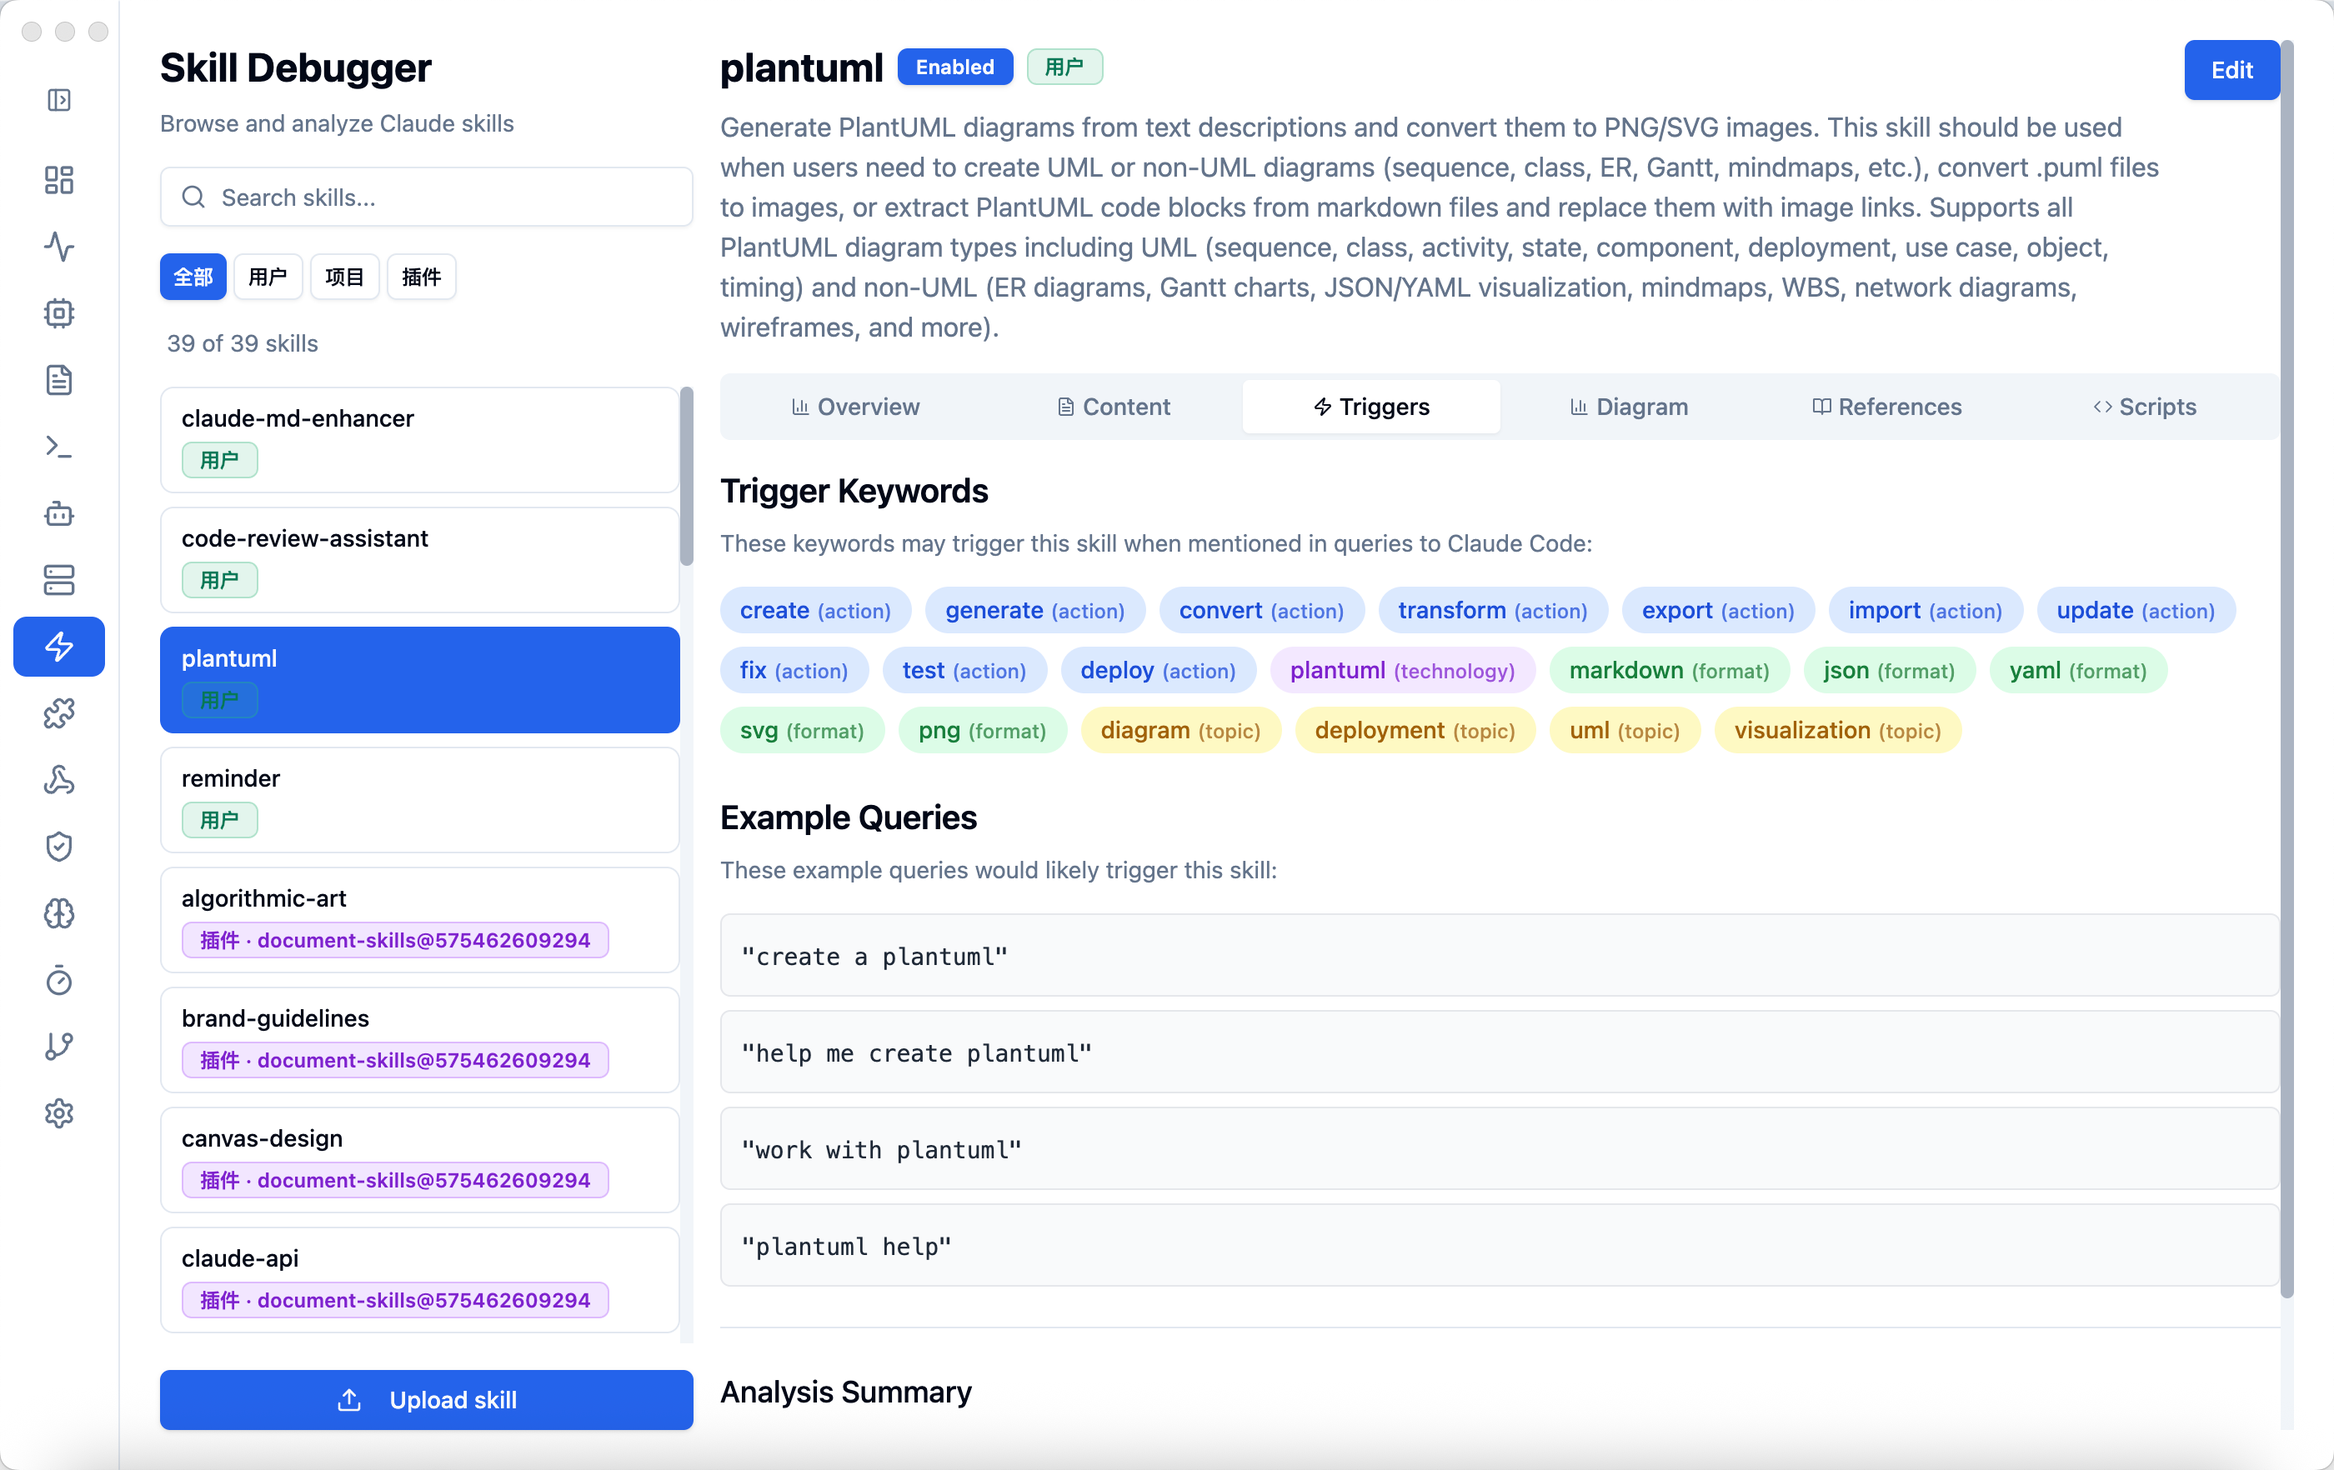
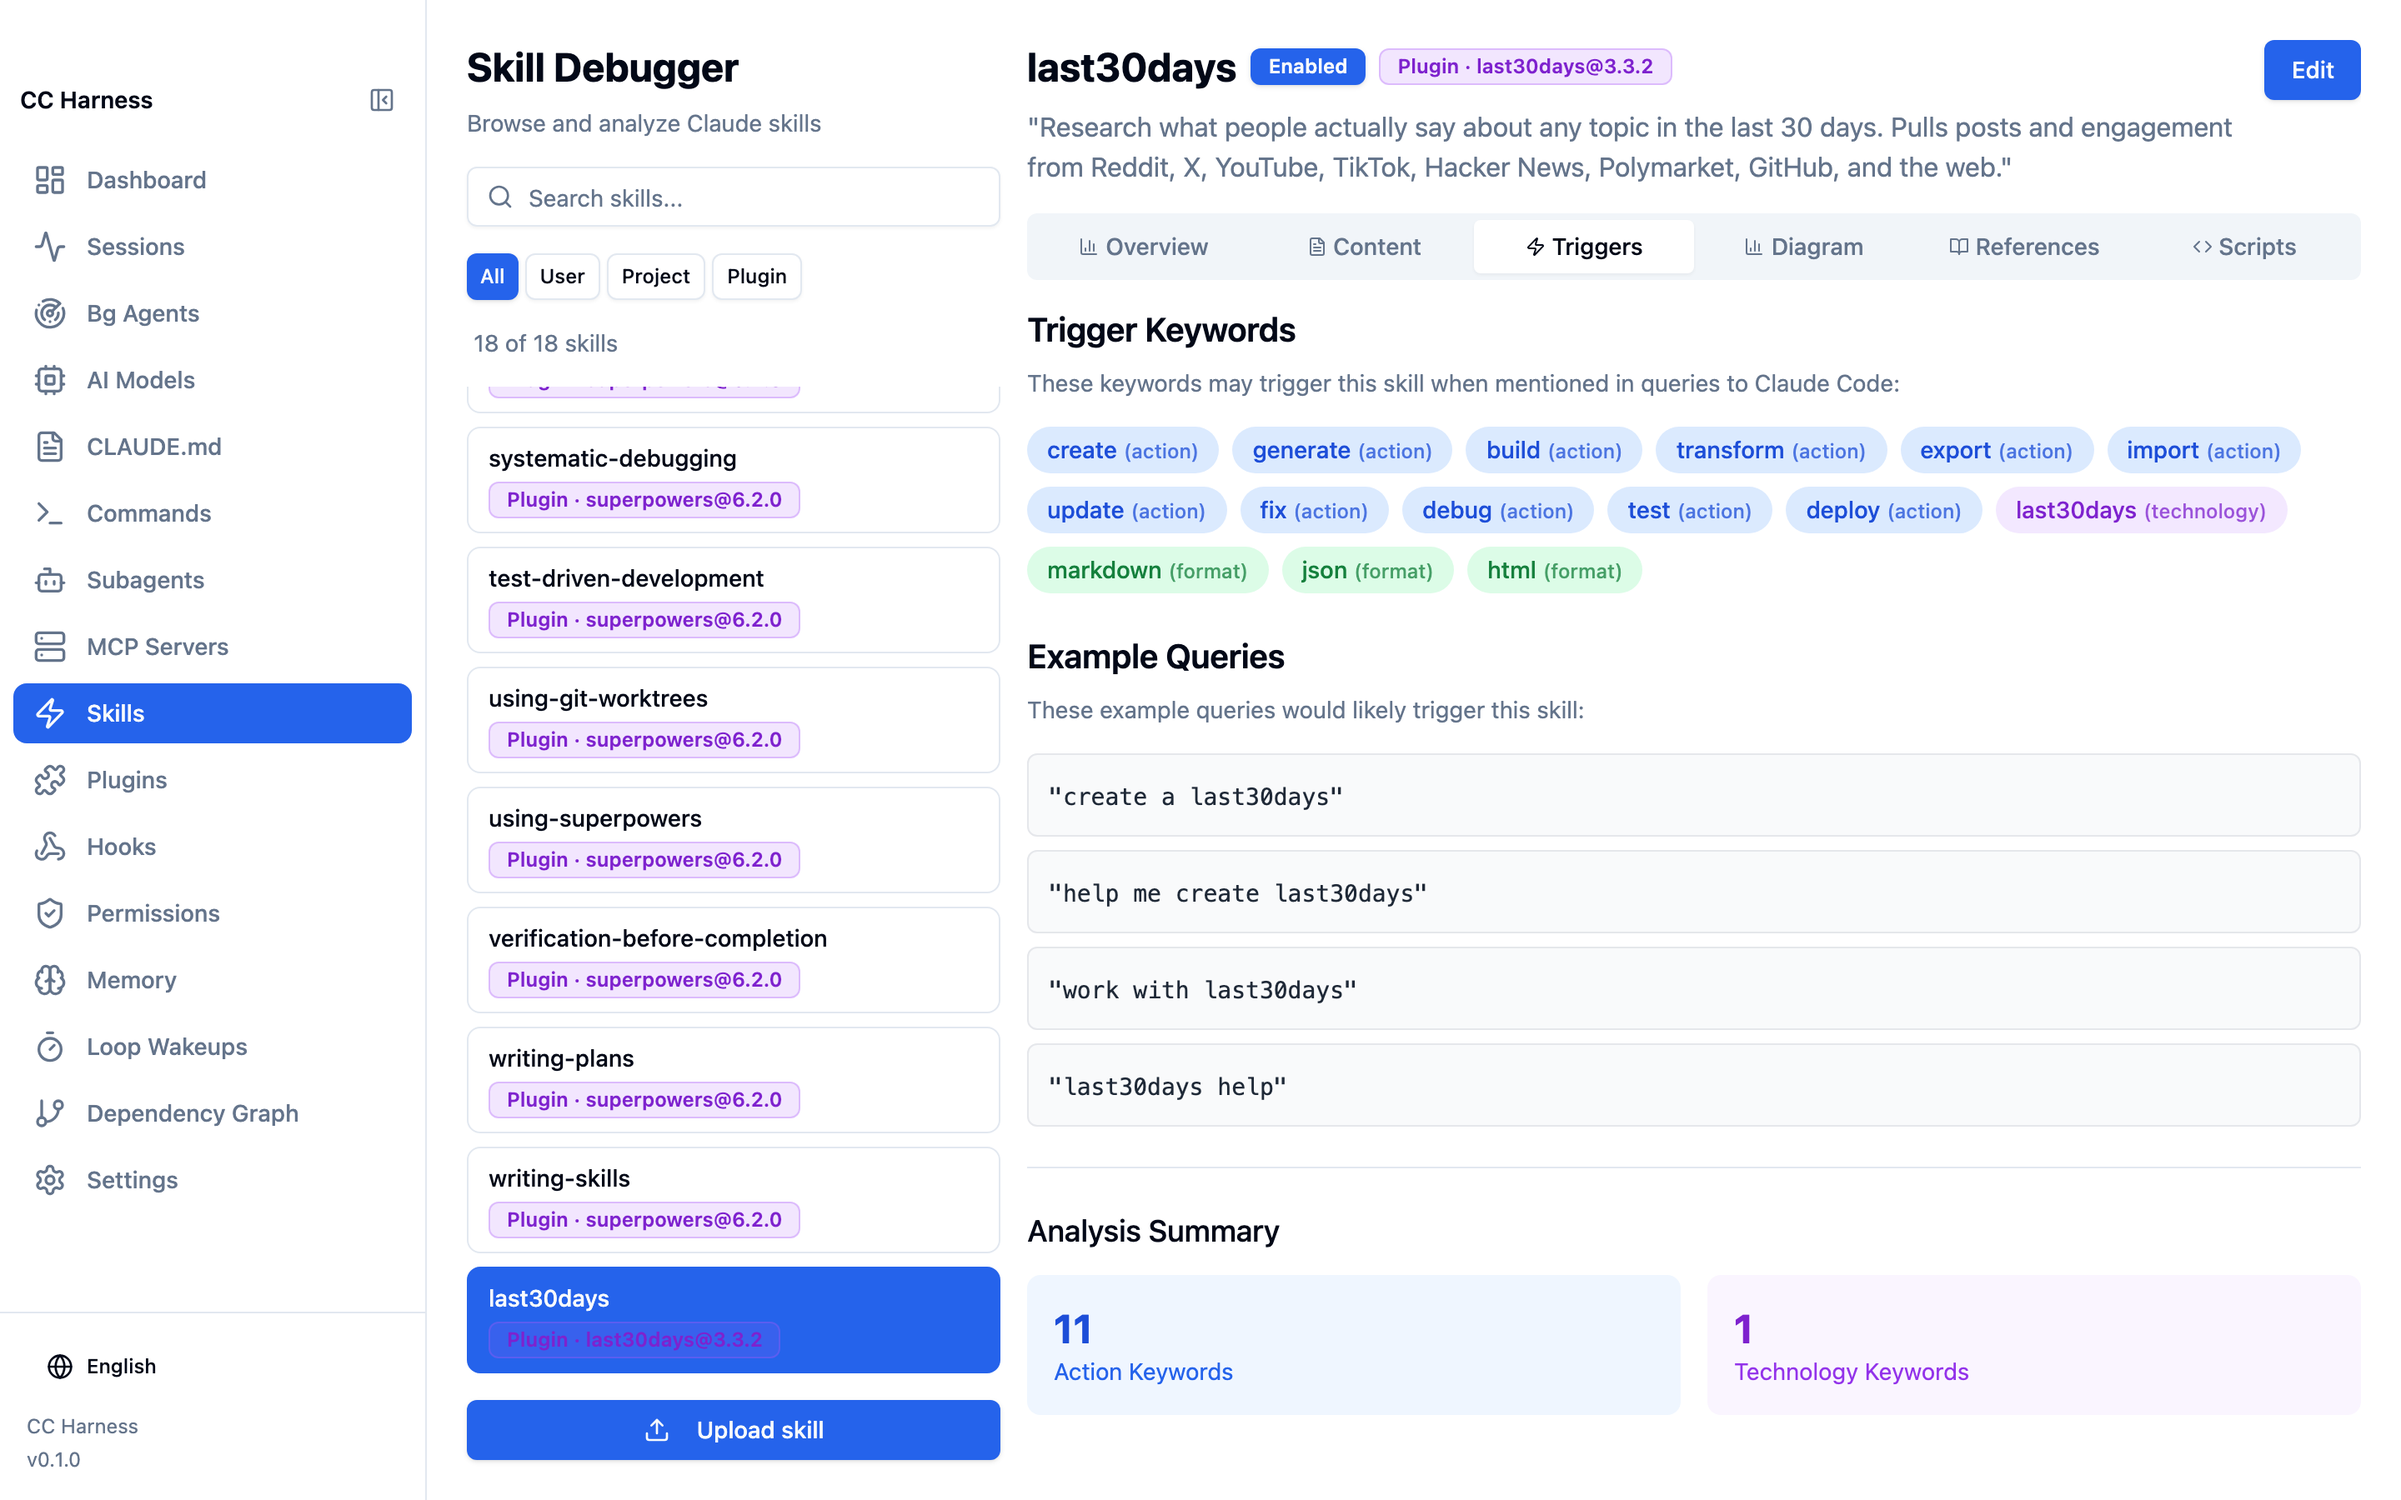
docs(readme): 英文 UI 重截 Usage / Skills 截图（Usage 换成带下钻榜单的构图）
fix(usage): 饼图外挂标签在半栏卡片里必被裁 —— 改为下方紧凑图例，点图例同样可下钻

diff --git a/src/components/sessions/SessionUsage.tsx b/src/components/sessions/SessionUsage.tsx
@@ -117,7 +117,7 @@ export function SessionUsage({ sessionId, sessionFilePath, onSeek, onOpenTopolog
         {/* 成本饼图 */}
         <div className="border border-border rounded p-3">
           <div className="text-xs font-medium mb-1">{t('usage.pieTitle')}</div>
-          <ResponsiveContainer width="100%" height={200}>
+          <ResponsiveContainer width="100%" height={168}>
             <PieChart>
               <Pie
                 data={pieData}
@@ -127,7 +127,6 @@ export function SessionUsage({ sessionId, sessionFilePath, onSeek, onOpenTopolog
                 cy="50%"
                 outerRadius={70}
                 cursor="pointer"
-                label={(e) => `${t(`usage.bucket.${e.bucket}`)} ${usd(e.value)}`}
                 onClick={(_, idx) => {
                   const b = pieData[idx]?.bucket
                   if (b) setDrillBucket((prev) => (prev === b ? null : b))
@@ -140,6 +139,23 @@ export function SessionUsage({ sessionId, sessionFilePath, onSeek, onOpenTopolog
               <Tooltip formatter={(v: number) => usd(v)} />
             </PieChart>
           </ResponsiveContainer>
+          {/* 图例代替扇区外挂标签：卡片只有半栏宽，外挂标签必被裁 */}
+          <div className="flex flex-wrap gap-x-3 gap-y-1 mt-1">
+            {pieData.map((d) => (
+              <button
+                key={d.bucket}
+                onClick={() => setDrillBucket((prev) => (prev === d.bucket ? null : d.bucket))}
+                className={cn(
+                  'flex items-center gap-1 text-[11px] rounded px-1 hover:bg-muted/50',
+                  drillBucket === d.bucket && 'bg-muted'
+                )}
+              >
+                <span className="w-2 h-2 rounded-sm" style={{ background: BUCKET_COLOR[d.bucket] }} />
+                {t(`usage.bucket.${d.bucket}`)}
+                <span className="text-muted-foreground">{usd(d.value)}</span>
+              </button>
+            ))}
+          </div>
         </div>
 
         {/* 累计烧钱 */}

diff --git a/README.md b/README.md
@@ -30,7 +30,7 @@ Claude Code has grown from a single-session tool into a complex system: multi-se
 
 ![Hook sandbox](./images/hook-2.png)
 
-- **Token cost breakdown** — per-session panel splitting skills / subagents / MCP / plugins / base session. Includes a real-time optimizer: repricing the current session's Opus tokens at Sonnet rates, so you see the exact dollar amount you'd save — from real data, not an estimate.
+- **Token cost breakdown** — per-session panel splitting skills / subagents / MCP / plugins / base session. Click a slice to rank that bucket's most expensive turns, then click a row to land on that exact message in the replay. Includes a real-time optimizer: repricing the current session's Opus tokens at Sonnet rates, so you see the exact dollar amount you'd save — from real data, not an estimate.
 
 ![Token usage](./images/token-use.png)
 
